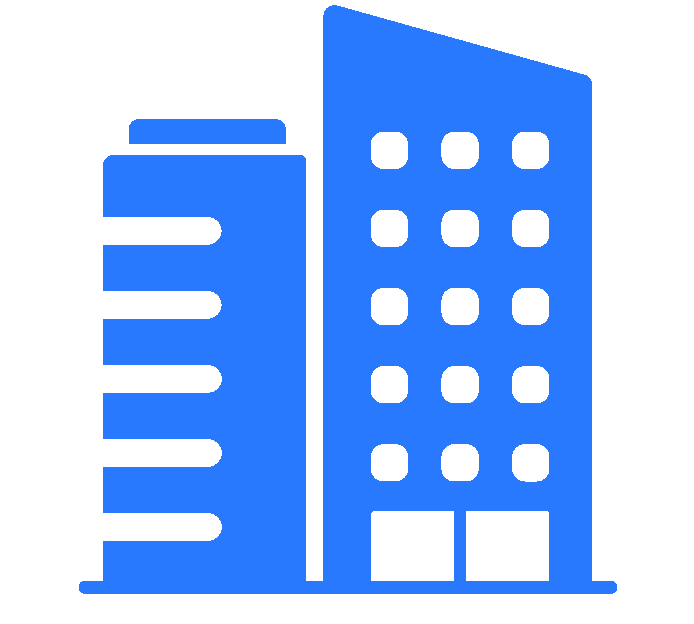
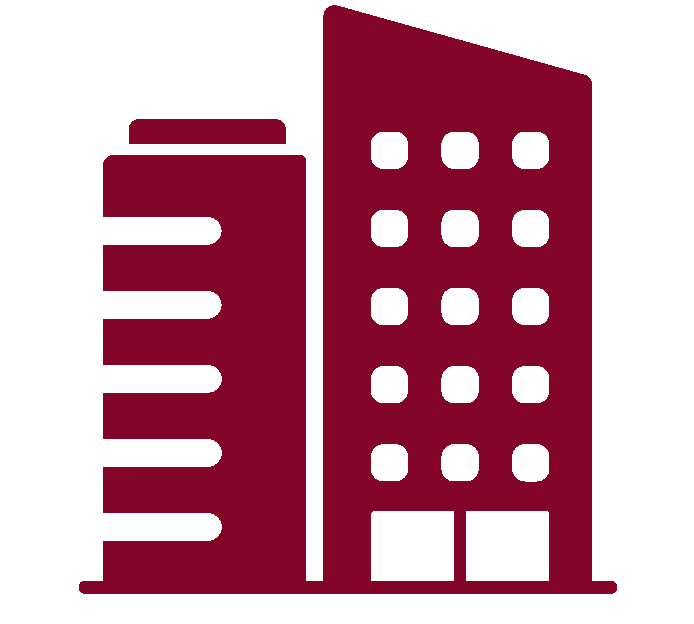
Added navbar drawer

diff --git a/src/components/Navbar.vue b/src/components/Navbar.vue
@@ -1,47 +1,63 @@
 <template>
-  <!--    <v-navigation-drawer-->
-  <!--      v-model="drawer"-->
-  <!--      class="brown lighten-2"-->
-  <!--      dark-->
-  <!--      disable-resize-watcher-->
-  <!--    >-->
-  <!--      <v-list>-->
-  <!--        <template v-for="(item, index) in items">-->
-  <!--          <v-list-tile :key="index">-->
-  <!--            <v-list-tile-content>-->
-  <!--              {{ item.title }}-->
-  <!--            </v-list-tile-content>-->
-  <!--          </v-list-tile>-->
-  <!--          <v-divider :key="`divider-${index}`"></v-divider>-->
-  <!--        </template>-->
-  <!--      </v-list>-->
-  <!--    </v-navigation-drawer>-->
-  <v-app-bar app color="primary" dark flat>
-    <v-app-bar-nav-icon
-      class="hidden-md-and-up"
-      @click="drawer = !drawer"
-    ></v-app-bar-nav-icon>
-    <v-spacer class=" hidden-md-and-up"></v-spacer>
-    <div class="d-flex align-center">
-      <v-img
-        alt="Fut-name"
-        contain
-        min-width="100"
-        src="@/assets/FUT_white.png"
-        width="200"
-      />
-    </div>
-    <v-spacer />
-    <div v-for="(item, index) in items" :key="index">
-      <v-btn
-        text
-        class="hidden-sm-and-down"
-        elevation="0"
-        @click="$vuetify.goTo(item.id)"
-        >{{ item.title }}</v-btn
-      >
-    </div>
-  </v-app-bar>
+  <span>
+    <v-app-bar app color="primary" dark flat>
+      <v-app-bar-nav-icon
+        class="hidden-lg-and-up"
+        @click="drawer = !drawer"
+      ></v-app-bar-nav-icon>
+      <v-spacer class=" hidden-lg-and-up"></v-spacer>
+      <div class="d-flex align-center" @click="$vuetify.goTo(main.id)">
+        <v-img
+          alt="Fut-name"
+          contain
+          min-width="100"
+          src="@/assets/FUT_white.png"
+          width="200"
+        />
+      </div>
+      <v-spacer />
+      <div v-for="(item, index) in items" :key="index">
+        <v-btn
+          text
+          class="hidden-md-and-down"
+          elevation="0"
+          @click="$vuetify.goTo(item.id)"
+          >{{ item.title }}</v-btn
+        >
+      </div>
+    </v-app-bar>
+
+    <v-navigation-drawer
+      app
+      v-model="drawer"
+      class="primary"
+      dark
+      disable-resize-watcher
+    >
+      <v-list>
+        <v-list-item @click="$vuetify.goTo(main.id)">
+          <div class="d-flex align-center">
+            <v-img
+              alt="Fut-name"
+              contain
+              min-width="100"
+              src="@/assets/FUT_white.png"
+              width="200"
+            />
+          </div>
+        </v-list-item>
+        <v-list-item
+          v-for="item in items"
+          :key="item.title"
+          @click="$vuetify.goTo(item.id)"
+        >
+          <v-list-item-content>
+            <v-list-item-title>{{ item.title }}</v-list-item-title>
+          </v-list-item-content>
+        </v-list-item>
+      </v-list>
+    </v-navigation-drawer>
+  </span>
 </template>
 
 <script>
@@ -51,6 +67,7 @@ export default {
     return {
       appTitle: "FUT Poznan",
       drawer: false,
+      main: { title: "FUT Poznan", id: "#hero" },
       items: [
         { title: "Zaproszenie", id: "#invitation" },
         { title: "Rejestracja", id: "#registration" },

diff --git a/src/plugins/vuetify.js b/src/plugins/vuetify.js
@@ -10,7 +10,7 @@ const vuetify = new Vuetify({
     themes: {
       light: {
         primary: "#830628",
-        secondary: "#821590",
+        secondary: "#B40333",
         anchor: "#000000"
       }
     }
